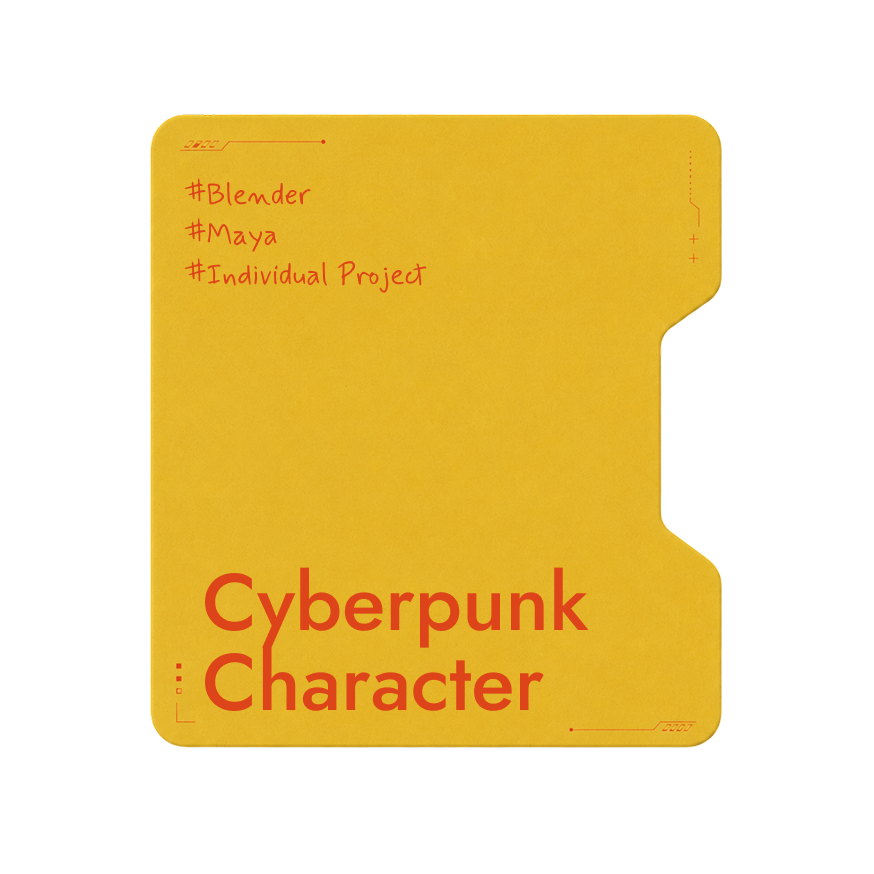
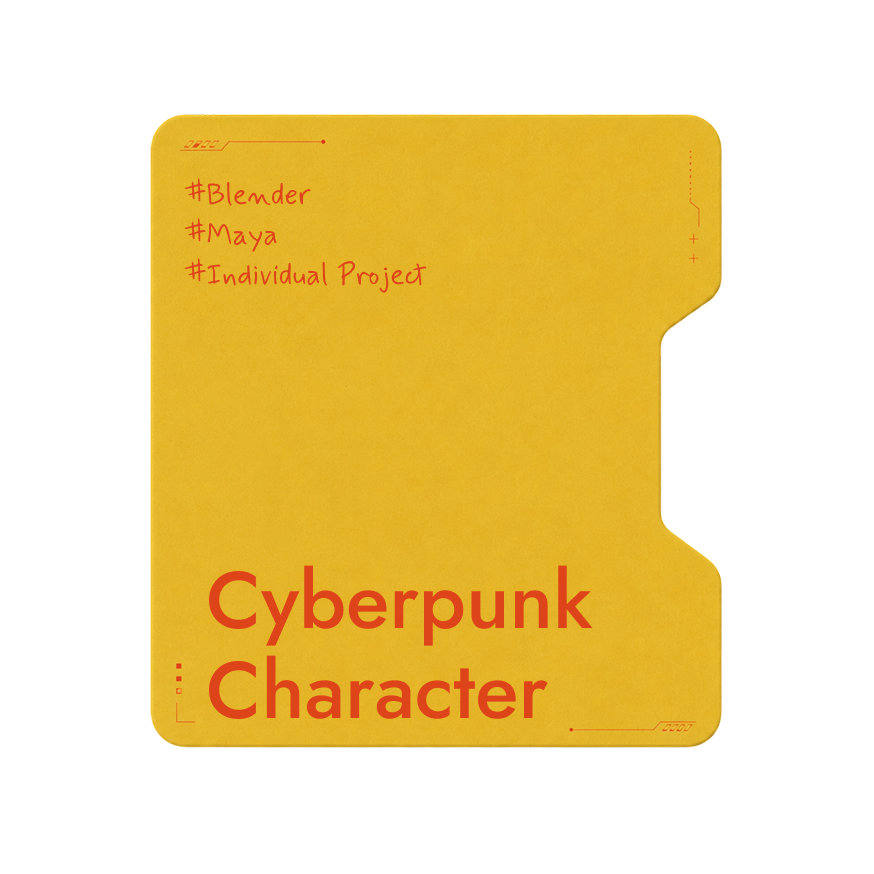
1

Changed region(s): [[0.2162, 0.6487, 0.6796, 0.8341]]

diff --git a/js/main.js b/js/main.js
@@ -32,6 +32,7 @@ document.addEventListener('DOMContentLoaded', () => {
   const projectSound = new Audio('../Sound/CD.MP3');
   document.querySelectorAll('a[href*="games/"], a[href*="art/"]').forEach(link => {
     if (link.href.includes('cyberpunk-character.html')) return;
+    if (link.href.includes('pixar-studio.html')) return;
     link.addEventListener('click', (e) => {
       e.preventDefault();
       projectSound.play();
@@ -40,6 +41,20 @@ document.addEventListener('DOMContentLoaded', () => {
       }, { once: true });
     });
   });
+
+  // Pixar cover click animation
+  const pixarLink = document.querySelector('a[href="art/pixar-studio.html"]');
+  if (pixarLink) {
+    pixarLink.addEventListener('click', (e) => {
+      e.preventDefault();
+      projectSound.play();
+      const img = pixarLink.querySelector('.cyber-cover');
+      img.classList.add('spin');
+      setTimeout(() => {
+        window.location.href = pixarLink.href;
+      }, 1000);
+    });
+  }
 
   // Cyberpunk cover click animation
   const cyberLink = document.querySelector('a[href="art/cyberpunk-character.html"]');

diff --git a/css/style.css b/css/style.css
@@ -220,10 +220,9 @@ body {
 /* ── Art Grid ── */
 .art-grid {
   display: grid;
-  grid-template-columns: repeat(2, 1fr);
-  gap: 1.5rem;
-  max-width: 900px;
-  margin: 0 auto;
+  grid-template-columns: repeat(2, max-content);
+  justify-content: center;
+  gap: 2rem;
   padding: 2rem 1.5rem;
 }
 
@@ -264,7 +263,7 @@ body {
   object-fit: contain;
   position: relative;
   z-index: 2;
-  opacity: 0.85;
+  opacity: 0.9;
 }
 
 .cyber-case-back {
@@ -284,6 +283,10 @@ body {
   top: 72px;
   z-index: 1;
   pointer-events: auto;
+}
+
+.art-grid .art-card.no-bg:last-child {
+  padding-right: 80px;
 }
 
 .art-card.no-bg:hover .cyber-cover {
@@ -306,9 +309,9 @@ body {
   color: #bbb;
 }
 
-@media (max-width: 600px) {
+@media (max-width: 960px) {
   .art-grid {
-    grid-template-columns: 1fr;
+    grid-template-columns: max-content;
   }
 }
 

diff --git a/art-3d.html b/art-3d.html
@@ -27,7 +27,9 @@
   <main class="content">
     <div class="art-grid">
       <a href="art/pixar-studio.html" class="art-card no-bg">
-        <img src="images/PixarCover.jpg" alt="Inside the PIXAR Studio" class="art-card-img">
+        <img src="images/PIXARCase.png" alt="PIXAR Case Back" class="cyber-case cyber-case-back">
+        <img src="images/PIXARCase.png" alt="PIXAR Case" class="cyber-case">
+        <img src="images/PIXARCover.png" alt="Inside the PIXAR Studio" class="art-card-img cyber-cover">
       </a>
       <a href="art/cyberpunk-character.html" class="art-card no-bg">
         <img src="images/CyberCase.png" alt="Cyber Case Back" class="cyber-case cyber-case-back">
